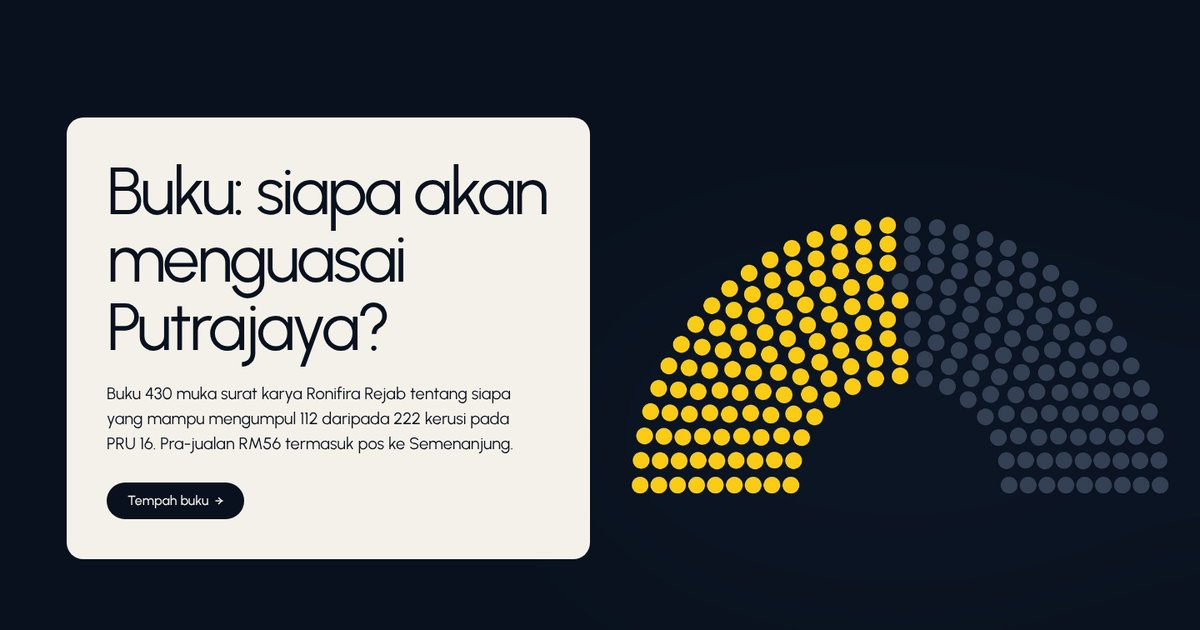
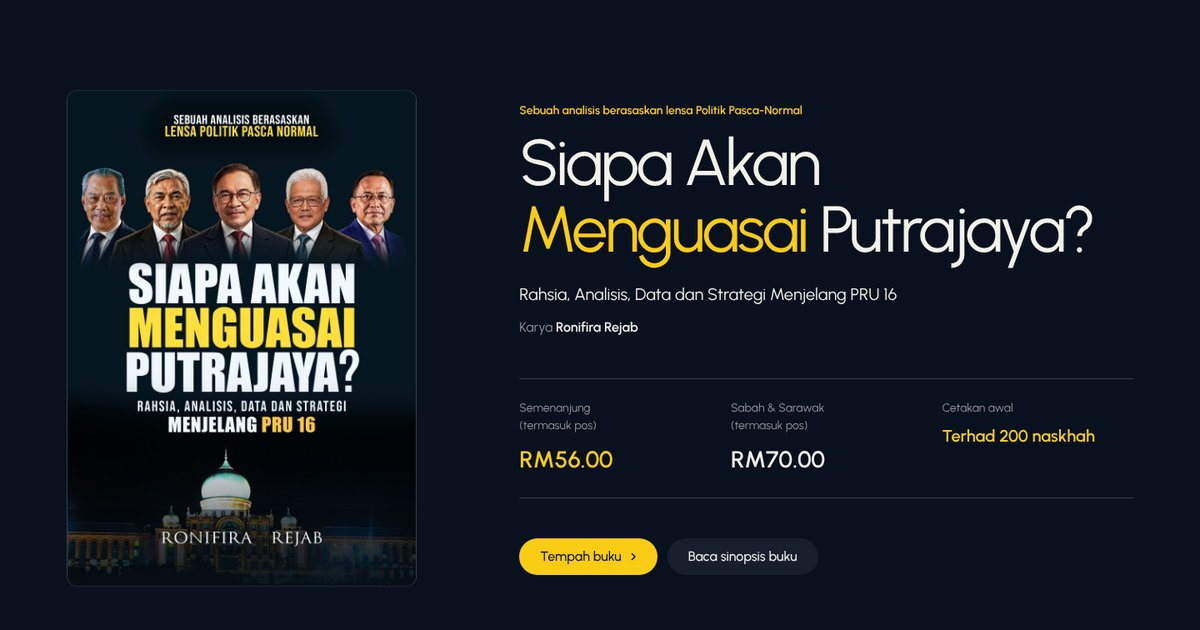
Hero in the owner's reference layout and the owner's images
Hero: cover left; label, title, subtitle, author, prices and actions right,
on the jacket navy. Method steps and the order section use the owner's
images. Publisher spec value is a rows__value span again and wraps on phones.

Claude-Session: https://claude.ai/code/session_01AzzyhuvDr4VxWUeazPQAUm

diff --git a/DESIGN.md b/DESIGN.md
@@ -10,9 +10,9 @@ taste-skill's quiet company-site language with the book jacket's colours, dial `
 
 ## The deal (dealt by the skill's scripts, not chosen by taste)
 - **Kind:** product (a physical book sold online), `site-kind other`: flat grounds, no effects.
-- **Hero:** `photo` (`deal.mjs --type product`). With no photographs allowed (the owner's request), the picture
-  is a generated chart: the 222 seats of the Dewan Rakyat with the 112 a simple majority needs in yellow. That
-  number is the book's question.
+- **Hero:** the owner's own layout (their reference, 18 Nov): the front cover on the left; the label, title
+  ("Menguasai" in yellow), subtitle, author, three price facts and two actions on the right, on the jacket's
+  navy. It replaces the dealt `photo` hero.
 - **Nav** `nav-split` · **close** `close-photo`, turned into close-word's head row because the page has no
   photographs (sections.md section 2) · **footer** `footer-dark` · **rhythm** `brand-band` (the yellow video
   section) · **buttons** `pill` · **mark** `stack`.
@@ -25,27 +25,24 @@ taste-skill's quiet company-site language with the book jacket's colours, dial `
 | `--p-bg` | `#f4f1ea` | Page ground (paper) |
 | `--p-ink` / `--p-action` | `#09111e` | Text, primary button (jacket navy) |
 | `--p-accent` | `#facc15` | Jacket yellow: the brand band, the primary on the dark footer, the word "formula lama" |
-| inverse | `#09111e` ground | The hero chart and the dark footer |
+| inverse | `#09111e` ground | The hero and the dark footer |
 
 Radius `soft`. Type: Urbanist (the first pairing `start.mjs` dealt), self-hosted with `@fontsource-variable/urbanist`.
 
-## Pictures (no fetched photographs, by request)
+## Pictures
 | File | What it is |
 |---|---|
-| `img/hero-dewan-rakyat.jpg` | Generated in Python: the 222-seat hemicycle, 112 seats in yellow |
-| `img/buku-kulit-depan-belakang.jpg` | Generated: the client's back and front cover side by side on navy (nav panel card) |
-| `COVER 16 copy 2.jpg`, `COVER 16 BACK copy.png` | The client's cover files (the book section) |
-| `img/bab-*.jpg`, `img/tempah-buku.jpg`, `img/soalan-penyampai.jpg` | Frames cut from the client's two videos, above the burned-in subtitles |
+| `COVER 16 copy 2.jpg`, `COVER 16 BACK copy.png` | The client's cover files (hero, book section) |
+| `img/bab-dinding-data.jpg`, `img/bab-peta-meja.jpg`, `img/bab-membaca.jpg` | The owner's images for the three method steps |
+| `img/tempah-putrajaya.jpg` | The owner's image of Putrajaya at night, beside the order form |
+| `img/soalan-penyampai.jpg` | A frame from the client's second video (questions section) |
+| `img/buku-kulit-depan-belakang.jpg` | Generated: back and front cover side by side (nav panel card) |
 | `poster-video-0*.jpg` | First frames of the client's videos (posters) |
-
-The videos are 478px wide, so the frames are upscaled 2x and look soft at full size. A real photo shoot of
-the book would replace them (see the follow-up report).
 
 ## Decisions that break a taste-skill rule, on purpose (waived in `.taste-skill/waivers.json`)
 - **Phone number, full address with postcode, SSM number:** taste-skill rule 9 forbids them. CHIP Collect
   card-payment activation needs them, and the owner supplied them.
-- **Hero product size:** the checker wants the book across 80% of the hero. The owner asked for no
-  photographs; the book is shown whole in the book section instead.
+- **Hero:** the owner's layout replaces the dealt hero; taste-skill's hero checks no longer apply to it.
 
 ## Policy pages
 Legal text reads top to bottom, so the policy pages' one section grows with its text (page CSS
